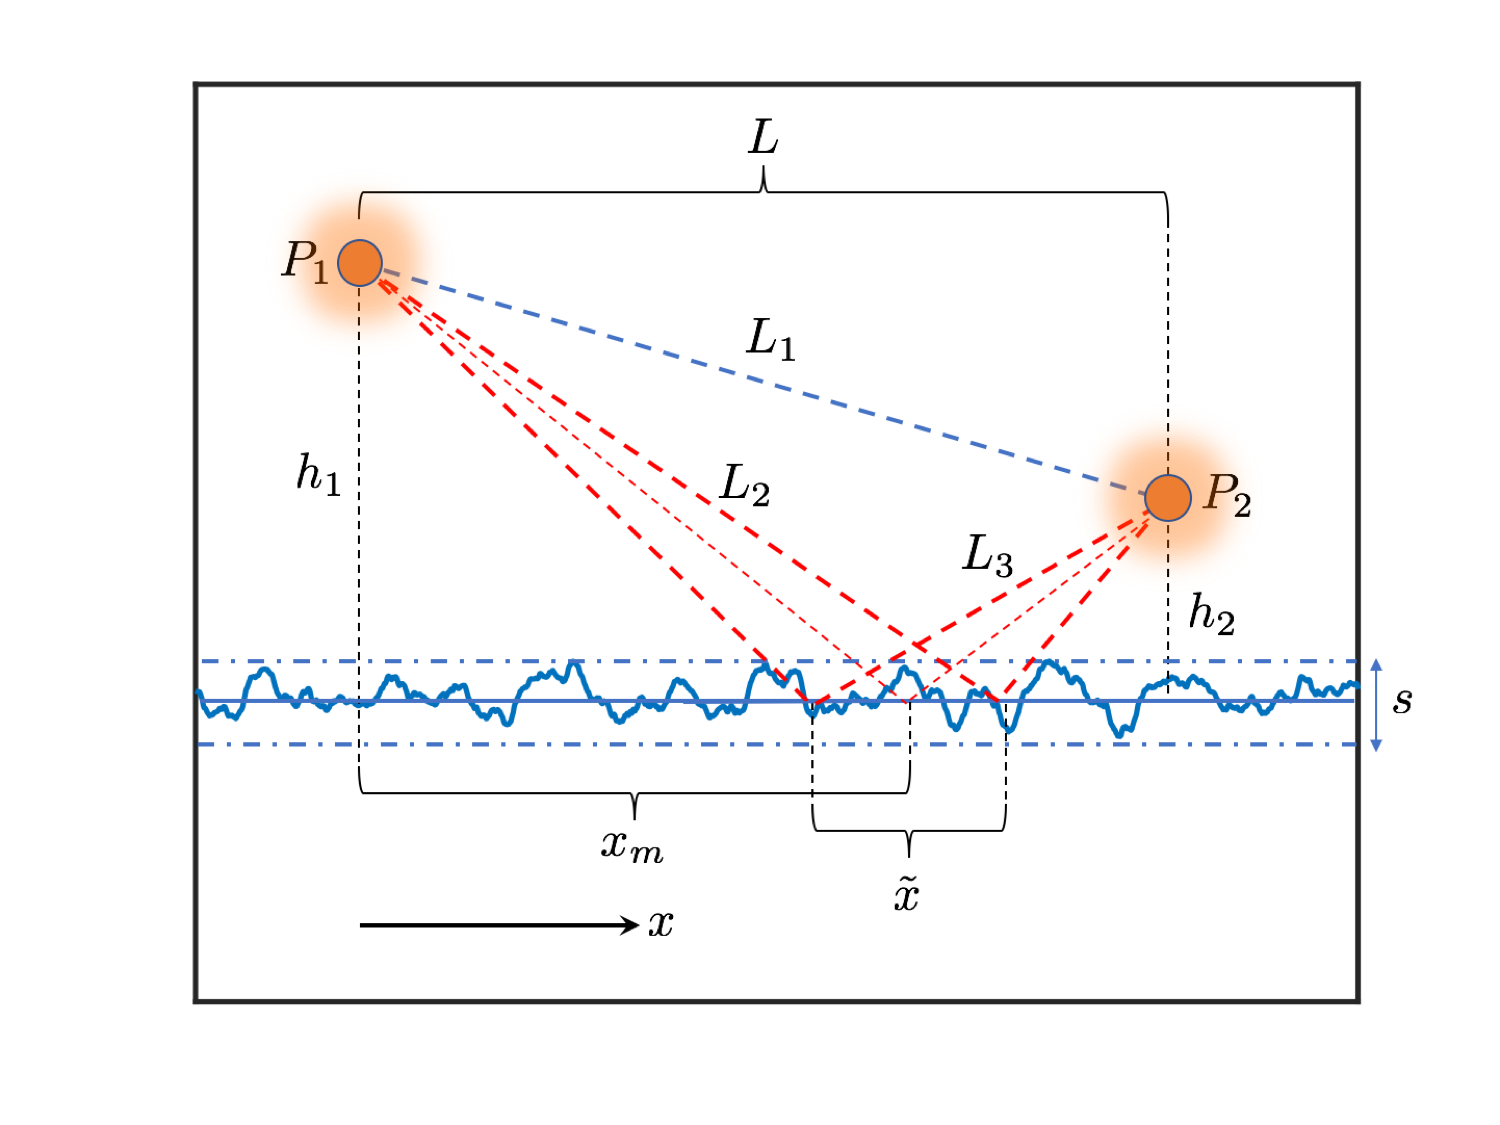
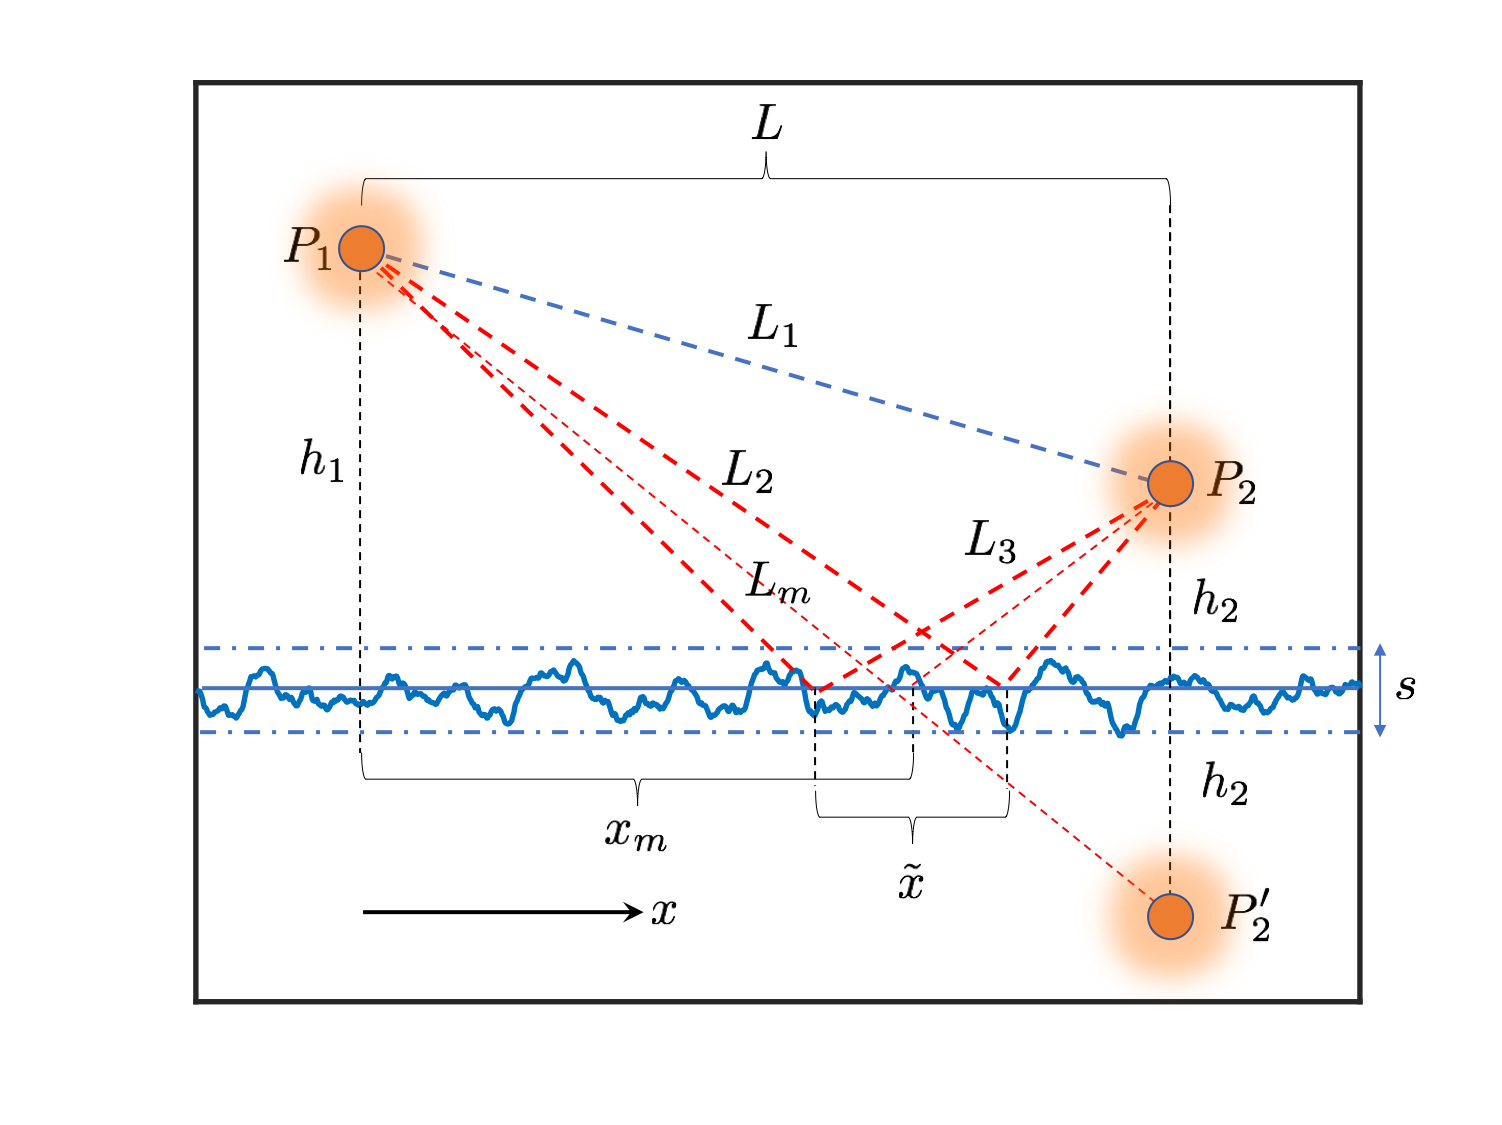
clean up pass

diff --git a/src/greens_functions.tex b/src/greens_functions.tex
@@ -1268,7 +1268,7 @@ Here, $\kappa$ is related to the ocean wave standard deviation through $\kappa =
 In this section, we will use a paraxial Green's function to derive the propagation integral for a wave that is reflected off an ocean surface with small random components.
 
 \subsubsection{Integral Solution for Reflected Ray}
- The geometry is shown in Figure \ref{gf_fig:15}, where $\tilde{x}$ is the region over which the energy is significantly reflected, $x_m$ is the primary point of reflection, $L_1$ is the direct path, $L_2$ and $L_3$ are the path lengths for the various reflected rays, $s(x)$ is the altitude of the sea surface at $x$, $h_2$ is the altitude of the receiver at $P_2$, $h_1$ is the altitude of the transmitter at $P_1$, and $L$ is the ground distance between $P_1$ and $P_2$. 
+ The geometry is shown in Figure \ref{gf_fig:15}, where $\tilde{x}$ is the region over which the energy is significantly reflected, $x_m$ is the primary point of reflection, $L_1$ is the direct path, $L_2$ and $L_3$ are the path lengths for the various reflected rays along $\tilde{x}$, $s(x)$ is the altitude of the sea surface at $x$, $h_2$ is the altitude of the receiver at $P_2$, $h_1$ is the altitude of the transmitter at $P_1$, $L$ is the ground distance between $P_1$ and $P_2$, and $P_2'$ is the mirror image of $P_2$. Finally, $L_m$ represents the minimum reflected path, which is given as a straight line between $P_1$ and the mirror image of $P_2$. 
 
 \begin{figure}[ht]
   \begin{center}
@@ -1281,7 +1281,7 @@ In this section, we will use a paraxial Green's function to derive the propagati
 \end{figure}
 \renewcommand{\baselinestretch}{2} \small\normalsize
 
-A simplified 2-ray geometry is given in Figure \ref{gf_fig:15a} to allow us to make some approximations. We can simplify the various path lengths through a binomial expansion. Here $L_m$ represents the minimum reflected path, which would be given as a straight line between $P_1$ and the mirror image of $P_2$. 
+\noindent We can simplify the various path lengths through a binomial expansion. 
 
 \begin{equation}
 \begin{aligned}
@@ -1292,17 +1292,6 @@ L_3 & = \sqrt{\left(L - x\right)^2 + \left( h_2 - s(x)\right)^2}  \approx L-x + 
 \end{aligned}
 \label{gf_eq:59}
 \end{equation}
-\renewcommand{\baselinestretch}{2} \small\normalsize
-
-\begin{figure}[ht]
-  \begin{center}
-\includegraphics[width=5in]{../media/analysis/multipath_2_ray.png}
-  \end{center}
-  \renewcommand{\baselinestretch}{1} \small\normalsize
-  \begin{quote}
-    \caption[2-Ray Multipath Geometry]{2-Ray Multipath Geometry\label{gf_fig:15a}}
-  \end{quote}
-\end{figure}
 \renewcommand{\baselinestretch}{2} \small\normalsize
 
 We can use Equation \ref{gf_eq:52} with the paraxial Green's function where the surface normal is now given as $\hat{z}$. The reflected wave along $L_3$ will then be given by
@@ -1558,7 +1547,7 @@ A simple plane wave solution would result in $U_2(P_2) = \Gamma_1\exp[-jk_fL_m]$
 
 Equation \ref{gf_eq:73a} is a significant result as the asymptotic expression allows us to look at the impact of random wave heights on the average field at the observation point, although it is really only valid only under a flat earth approximation. We can however, implement this in a numerical method similar to ray tracing that allows $m$ to vary as a function of $z$.
 
-It is often convenient to work with a propagation factor, $F_p$ instead of the field. The propagation factor acts as a multiplier on the direct path and will be a normalized version of Equation \ref{gf_eq:73a}. For the paraxial wave assumption, the propagation factor is the same as what we would have gotten from using plane waves.
+It is often convenient to work with a propagation factor, $F_p$ instead of the field. The propagation factor acts as a multiplier on the direct path and is really just Equation \ref{gf_eq:73a} normalized by the amplitude for the direct path. For the paraxial wave assumption, the propagation factor is the same as what we would have gotten from using plane waves.
 
 \begin{equation}
 F_p = e^{-jk_fL_1}+\Gamma_1e^{-jk_fL_m} \sum_{l=-\infty}^{\infty}J_l(\sigma)e^{j\phi_l}
@@ -1703,7 +1692,7 @@ Adding in the direct path solution gives us the full field description.
 \end{equation}
 \renewcommand{\baselinestretch}{2} \small\normalsize
 
-Equation \ref{cyl_eq:12} is again very similar to Equation \ref{gf_eq:73a}, where we now have the cylindrical spreading for each wave based on the path lengths.
+Equation \ref{cyl_eq:12} is again very similar to Equation \ref{gf_eq:73a}, where we now have the cylindrical spreading for each wave based on the path lengths. We can again normalize this equation by the direct path amplitude to get the propagation factor.
 
 \begin{equation}
 F_p =e^{-jk_oL_1}+\Gamma_1\sqrt{\frac{L_1}{L_m}} e^{-jk_oL_m} \sum_{l=-\infty}^{\infty}J_l(\sigma)e^{j\phi_l}

diff --git a/src/gfSymbols.tex b/src/gfSymbols.tex
@@ -26,7 +26,7 @@ $\mathbf{r}$ & Position vector to observer \\
 $\mathbf{r}'$ & Position vector to source \\
 $s$ & Ocean surface \\
 $t$ & Time at observation\\
-$t'$ & Time at source\\
+$t'$ & Time of transmission\\
 $x_m$ & Primary reflection point \\
 \\
 %uppercase variables
